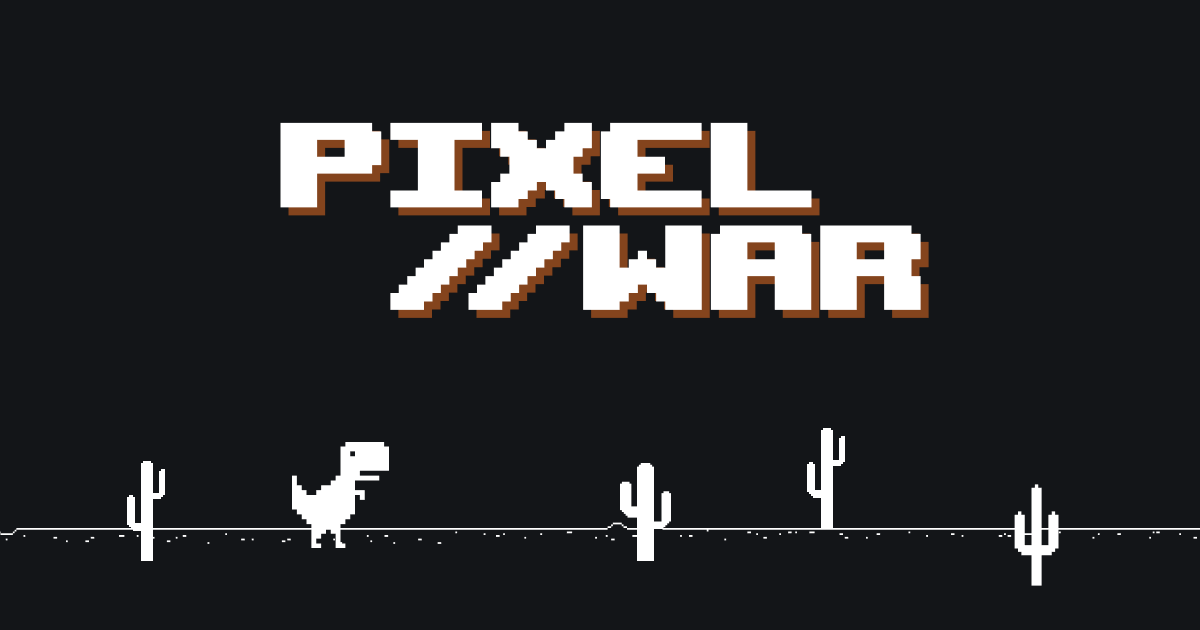
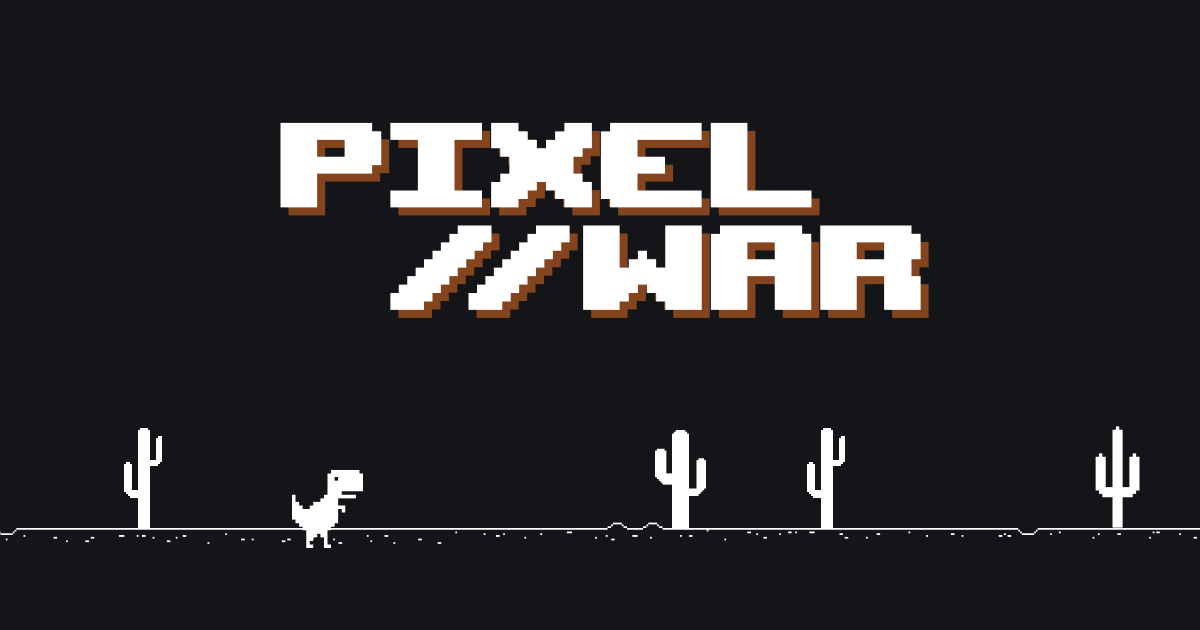
💄 Fixed title & countdown on mobile

diff --git a/style.css b/style.css
@@ -1,125 +1,139 @@
 * {
-  margin: 0;
-  padding: 0;
-  box-sizing: border-box;
-  font-family: "Press Start 2P", system-ui;
+    margin: 0;
+    padding: 0;
+    box-sizing: border-box;
+    font-family: "Press Start 2P", system-ui;
 }
 
 body {
-  background-color: #131518;
-  color: white;
-  height: 100vh;
+    background-color: #131518;
+    color: white;
+    height: 100vh;
 }
 
 a {
-  text-decoration: none;
-  color: white;
+    text-decoration: none;
+    color: white;
 }
 
 section {
-  width: 90%;
-  max-width: 800px;
-  display: flex;
-  flex-direction: column;
-  align-items: center;
-  justify-content: center;
-  font-weight: 700;
-  position: fixed;
-  top: 50%;
-  left: 50%;
-  transform: translate(-50%, -50%);
+    width: 90%;
+    max-width: 800px;
+    display: flex;
+    flex-direction: column;
+    align-items: center;
+    justify-content: center;
+    font-weight: 700;
+    position: fixed;
+    top: 50%;
+    left: 50%;
+    transform: translate(-50%, -50%);
 }
 
 .title {
-  width: 90%;
-  max-width: 770px;
-  font-size: 7em;
-  margin-bottom: 100px;
+    width: 90%;
+    max-width: 700px;
+    font-size: 7em;
+    margin-bottom: 100px;
+    display: flex;
+    flex-direction: column;
+    gap: 16px;
 }
 
 #countdown {
-  display: flex;
-  font-size: 2em;
-  margin-bottom: 100px;
+    display: flex;
+    font-size: 2em;
+    margin-bottom: 100px;
 }
 
 #countdown p {
-  margin: 0 0.5em;
+    margin: 0 0.5em;
 }
 
 #countdown p span {
-  margin: 0 0.5em;
-  opacity: 0.5;
+    margin: 0 0.5em;
+    opacity: 0.5;
 }
 
-.title p:nth-child(1) {
-  text-align: left;
+.title img:nth-child(1) {
+    margin-right: auto;
+    width: 60vw;
+    max-width: 500px;
 }
 
-.title p:nth-child(2) {
-  text-align: right;
+.title img:nth-child(2) {
+    margin-left: auto;
+    width: 60vw;
+    max-width: 500px;
 }
 
 .btn-notification {
-  background-image: url(assets/Background1.png);
-  background-repeat: no-repeat;
-  background-size: cover;
-  color: white;
-  border: none;
-  padding: 1.5em;
-  cursor: pointer;
+    background-image: url(assets/Background1.png);
+    background-repeat: no-repeat;
+    background-size: cover;
+    color: white;
+    border: none;
+    padding: 1.5em;
+    cursor: pointer;
 }
 
 .wait {
-  position: fixed;
-  bottom: 0;
-  left: 50%;
-  transform: translateX(-50%);
-  font-size: 0.8em;
-  text-align: center;
-  padding-bottom: 1.5em;
+    position: fixed;
+    bottom: 0;
+    left: 50%;
+    transform: translateX(-50%);
+    font-size: 0.8em;
+    text-align: center;
+    padding-bottom: 1.5em;
 }
 
 .wait a {
-  color: #f67423;
-  text-decoration: none;
+    color: #f67423;
+    text-decoration: none;
 }
 
 .cactus-gauche {
-  position: fixed;
-  bottom: 0;
-  left: 10%;
+    position: fixed;
+    bottom: 0;
+    left: 10%;
 }
 
 .cactus-droit {
-  position: fixed;
-  bottom: 0;
-  right: 10%;
+    position: fixed;
+    bottom: 0;
+    right: 10%;
 }
 
 @media screen and (max-width: 768px) {
-  section {
-    max-width: 90%;
-  }
+    section {
+        max-width: 90%;
+    }
 
-  .title {
-    font-size: 3.5em;
-    text-align: center;
-  }
+    .title {
+        font-size: 3.5em;
+        text-align: center;
+    }
 
-  #countdown {
-    font-size: 1em;
-  }
+    #countdown {
+        font-size: 1em;
+    }
 
-  .wait {
-    display: none;
-  }
+    .wait {
+        display: none;
+    }
 
-  .cactus-gauche {
-    max-width: 50px;
-  }
+    .cactus-gauche {
+        max-width: 50px;
+    }
 
-  .cactus-droit {
-    max-width: 100px;
-  }
+    .cactus-droit {
+        max-width: 100px;
+    }
+}
+
+@media screen and (max-width: 340px) {
+    #countdown {
+        flex-direction: column;
+        gap: 16px;
+    }
 }

diff --git a/index.html b/index.html
@@ -9,6 +9,7 @@
             href="https://fonts.googleapis.com/css2?family=Pixelify+Sans:wght@400..700&family=Press+Start+2P&display=swap"
             rel="stylesheet"
         />
+
         <link rel="stylesheet" href="style.css" />
         <link rel="stylesheet" href="background.css" />
 
@@ -46,8 +47,8 @@
         <div id="background"></div>
         <section>
             <div class="title">
-                <p>PIXEL</p>
-                <p><span>//</span>WAR</p>
+                <img src="assets/PIXEL.svg" alt="icon" />
+                <img src="assets/WAR.svg" alt="icon" />
             </div>
 
             <div id="countdown"></div>
